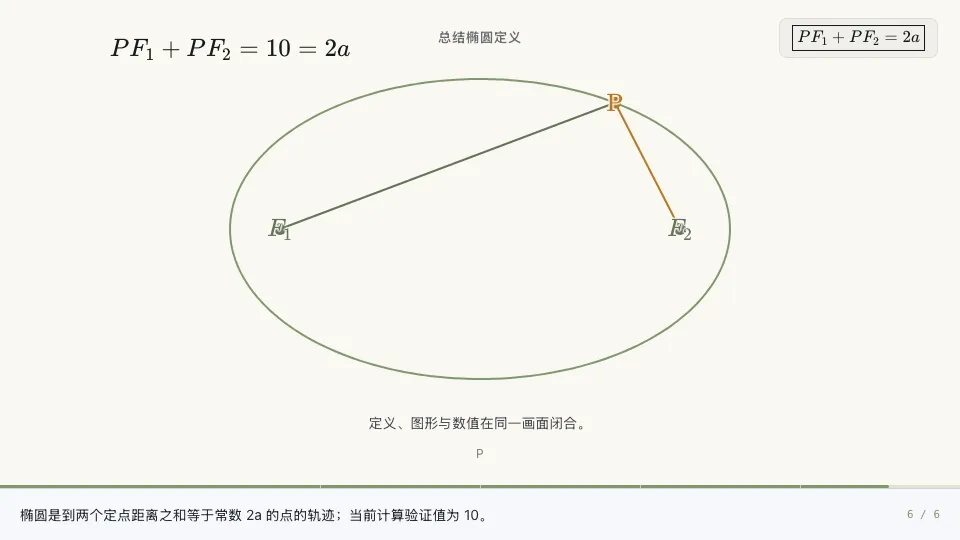
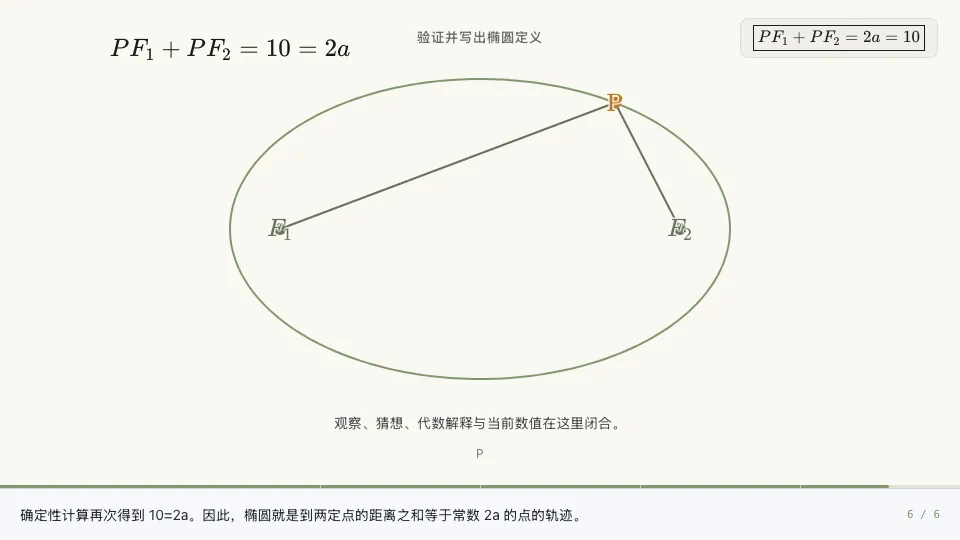
feat(math): clarify conic gold lessons

diff --git a/apps/web/src/pages/Templates/gold-templates/conicGoldTemplates.ts b/apps/web/src/pages/Templates/gold-templates/conicGoldTemplates.ts
@@ -1,12 +1,10 @@
 import type { MathSceneSnapshot, MetaStep, PlaybookScript } from "../../../features/playbook/engine/types";
 import {
   chordFromIntersection,
-  ellipseEccentricity,
   ellipseFocalDistanceSum,
   ellipseFoci,
   ellipseImplicit,
   ellipsePoint,
-  hyperbolaEccentricity,
   hyperbolaFocalDistanceDifference,
   hyperbolaFoci,
   hyperbolaPoint,
@@ -81,6 +79,7 @@ function buildEllipseFocus(params: TemplatePreviewParams): PlaybookScript {
   const t = clamp(numberParam(params, "t", 1), 0, 2 * Math.PI);
   const spec = { a, b };
   const [f1, f2] = ellipseFoci(spec);
+  const c = Math.sqrt(a * a - b * b);
   const p = ellipsePoint(spec, t);
   const d1 = Math.hypot(p.x - f1.x, p.y - f1.y);
   const d2 = Math.hypot(p.x - f2.x, p.y - f2.y);
@@ -88,24 +87,24 @@ function buildEllipseFocus(params: TemplatePreviewParams): PlaybookScript {
     kind: "math_scene", camera_mode: "fixed", x_min: -a - 1.5, x_max: a + 1.5, y_min: -b - 1.5, y_max: b + 1.5,
     x_label: "x", y_label: "y", curves: ellipseCurve(a, b),
     points: [
-      { ...f1, label: "$F_1$", emphasis: "secondary", semantic_role: "focus" },
-      { ...f2, label: "$F_2$", emphasis: "secondary", semantic_role: "focus" },
+      { ...f1, label: "$F_1$", emphasis: stage === 1 ? "accent" : "secondary", semantic_role: "focus" },
+      { ...f2, label: "$F_2$", emphasis: stage === 1 ? "accent" : "secondary", semantic_role: "focus" },
       ...(stage >= 2 ? [{ ...p, label: "P", emphasis: "accent", semantic_role: "moving_point" }] : []),
     ],
     segments: stage >= 3 ? [
-      { x0: p.x, y0: p.y, x1: f1.x, y1: f1.y, label: `PF₁=${fixed(d1)}`, emphasis: "secondary", semantic_role: "focal_distance" },
-      { x0: p.x, y0: p.y, x1: f2.x, y1: f2.y, label: `PF₂=${fixed(d2)}`, emphasis: "accent", semantic_role: "focal_distance" },
+      { x0: p.x, y0: p.y, x1: f1.x, y1: f1.y, label: `PF₁=${fixed(d1)}`, emphasis: stage === 3 ? "accent" : "secondary", semantic_role: "focal_distance" },
+      { x0: p.x, y0: p.y, x1: f2.x, y1: f2.y, label: `PF₂=${fixed(d2)}`, emphasis: stage === 3 ? "accent" : "secondary", semantic_role: "focal_distance" },
     ] : [],
     annotations: stage >= 4 ? [{ x: -a, y: b + 0.6, text: `$PF_1+PF_2=${fixed(d1 + d2)}=2a$`, align: "nw", semantic_role: "derivation_panel" }] : [],
     formula_latex: formula, caption,
   });
   const steps = [
-    sceneStep(0, "ellipse-foci", "先看两个焦点", "椭圆由两个固定焦点组织，并不是把圆随意压扁。", base(1, "F₁、F₂ 固定，曲线围绕它们展开。", String.raw`a=${a},\ b=${b}`)),
-    sceneStep(1, "ellipse-moving-point", "让点 P 沿椭圆移动", `当前参数 t=${fixed(t)}，P=(${fixed(p.x)},${fixed(p.y)})。`, base(2, "P 始终被确定性参数点限制在椭圆上。", String.raw`P(t)=(${a}\cos t,${b}\sin t)`)),
-    sceneStep(2, "ellipse-two-distances", "连接 P 与两个焦点", `当前 PF₁=${fixed(d1)}，PF₂=${fixed(d2)}。`, base(3, "两段距离分别变化。", String.raw`PF_1=${fixed(d1)},\ PF_2=${fixed(d2)}`)),
-    sceneStep(3, "ellipse-distance-sum", "比较距离和", `两段距离相加为 ${fixed(d1 + d2)}，恰好等于 2a=${fixed(2 * a)}。`, base(4, "单段长度会变，但距离和保持不变。", `PF_1+PF_2=2a=${fixed(2 * a)}`)),
-    sceneStep(4, "ellipse-shape-parameters", "改变 a 与 b", `当前离心率 e=${fixed(ellipseEccentricity(spec))}；a 与 b 改变时，焦点和形状同步重算。`, base(4, "参数变化不会破坏焦点定义。", String.raw`e=\frac{\sqrt{a^2-b^2}}a=${fixed(ellipseEccentricity(spec))}`)),
-    sceneStep(5, "ellipse-definition", "总结椭圆定义", `椭圆是到两个定点距离之和等于常数 2a 的点的轨迹；当前计算验证值为 ${fixed(ellipseFocalDistanceSum(spec, p))}。`, base(4, "定义、图形与数值在同一画面闭合。", String.raw`\boxed{PF_1+PF_2=2a}`)),
+    sceneStep(0, "ellipse-foci", "观察目标：寻找不变量", `先固定两个焦点 F₁、F₂；它们与中心的距离是 c=${fixed(c)}。`, base(1, "先记住两个定点，下一幕再引入动点。", String.raw`c=\sqrt{a^2-b^2}=${fixed(c)}`)),
+    sceneStep(1, "ellipse-moving-point", "改变 t：记录动点 P", `当 t=${fixed(t)} 时，P=(${fixed(p.x)},${fixed(p.y)})；改变 t 只改变 P 的位置，P 仍在同一椭圆上。`, base(2, "这一步只追踪 P 的位置，暂不计算距离。", String.raw`P(t)=(${a}\cos t,${b}\sin t)`)),
+    sceneStep(2, "ellipse-two-distances", "测量 PF₁ 与 PF₂", `连线后得 PF₁=${fixed(d1)}、PF₂=${fixed(d2)}。拖动 t 时，两段长度会一增一减。`, base(3, "先比较两个分量：它们都会变。", String.raw`PF_1=${fixed(d1)},\quad PF_2=${fixed(d2)}`)),
+    sceneStep(3, "ellipse-distance-sum", "提出猜想：距离和不变", `当前 PF₁+PF₂=${fixed(d1 + d2)}，恰好等于 2a=${fixed(2 * a)}。改变 t 后可继续检查这个猜想。`, base(4, "单段距离在变，但它们的和保持为 2a。", String.raw`PF_1+PF_2=${fixed(d1 + d2)}=2a`)),
+    sceneStep(4, "ellipse-shape-parameters", "代数解释：变化项相消", `由 b²=a²-c² 化简距离式，得 PF₁=a+c cos t，PF₂=a−c cos t；相加时变化项正好抵消。`, base(5, "不变不是图上的巧合：+ c cos t 与 − c cos t 相消。", String.raw`PF_1=a+c\cos t,\quad PF_2=a-c\cos t`)),
+    sceneStep(5, "ellipse-definition", "验证并写出椭圆定义", `确定性计算再次得到 ${fixed(ellipseFocalDistanceSum(spec, p))}=2a。因此，椭圆就是到两定点的距离之和等于常数 2a 的点的轨迹。`, base(5, "观察、猜想、代数解释与当前数值在这里闭合。", String.raw`\boxed{PF_1+PF_2=2a=${fixed(2 * a)}}`)),
   ];
   return playbook("椭圆的焦点定义", "看见椭圆上动点到两焦点距离之和恒为 2a。", "conic_ellipse_focus_definition", steps, [
     { id: "a", label: "长半轴 a", value: fixed(a), description: "满足 a>b>0" },
@@ -127,24 +126,26 @@ function buildParabola(params: TemplatePreviewParams): PlaybookScript {
     x_label: "x", y_label: "y",
     curves: [{ expression_x: `${p}*t^2`, expression_y: `${2 * p}*t`, t_min: -2.4, t_max: 2.4, label: "抛物线", emphasis: "primary", semantic_role: "conic_curve" }],
     points: [
-      { ...focus, label: "F", emphasis: "secondary", semantic_role: "focus" },
+      { ...focus, label: "F", emphasis: stage === 1 ? "accent" : "secondary", semantic_role: "focus" },
       ...(stage >= 2 ? [{ ...point, label: "P", emphasis: "accent", semantic_role: "moving_point" }] : []),
       ...(stage >= 3 ? [{ ...foot, label: "H", emphasis: "secondary", semantic_role: "projection_foot" }] : []),
     ],
     segments: [
-      { x0: -p, y0: -p * 5, x1: -p, y1: p * 5, label: "准线", emphasis: "secondary", semantic_role: "directrix" },
+      { x0: -p, y0: -p * 5, x1: -p, y1: p * 5, label: "准线", emphasis: stage === 1 ? "accent" : "secondary", semantic_role: "directrix" },
       ...(stage >= 3 ? [
         { x0: point.x, y0: point.y, x1: focus.x, y1: focus.y, label: `PF=${fixed(distances.focus)}`, emphasis: "accent", semantic_role: "focal_distance" },
         { x0: point.x, y0: point.y, x1: foot.x, y1: foot.y, label: `PH=${fixed(distances.directrix)}`, emphasis: "secondary", semantic_role: "directrix_distance" },
       ] : []),
-    ], formula_latex: formula, caption,
+    ],
+    annotations: [],
+    formula_latex: formula, caption,
   });
   const steps = [
-    sceneStep(0, "parabola-focus-directrix", "建立焦点与准线", `焦点 F=(${p},0)，准线是 x=${-p}。`, snapshot(1, "焦点和准线共同决定抛物线。", String.raw`F(${p},0),\ l:x=${-p}`)),
-    sceneStep(1, "parabola-moving-point", "选取曲线上动点", `参数 t=${fixed(t)} 给出 P=(${fixed(point.x)},${fixed(point.y)})。`, snapshot(2, "P 沿抛物线移动。", `P(t)=(${p}t^2,${2 * p}t)`)),
-    sceneStep(2, "parabola-project", "向准线作垂线", "H 是 P 到准线的垂足，所以 PH 是点到准线的距离。", snapshot(3, "PF 与 PH 在同一画面比较。", String.raw`PH\perp l`)),
-    sceneStep(3, "parabola-distance", "同步比较两段距离", `PF=${fixed(distances.focus)}，PH=${fixed(distances.directrix)}，两者相等。`, snapshot(3, "点移动时两段距离同步变化。", `PF=PH=${fixed(distances.focus)}`)),
-    sceneStep(4, "parabola-definition", "总结焦点—准线定义", "到定点 F 与定直线 l 距离相等的点的轨迹就是抛物线。", snapshot(3, "几何定义与参数方程互相验证。", String.raw`\boxed{PF=d(P,l)}`)),
+    sceneStep(0, "parabola-focus-directrix", "观察目标：寻找等距规则", `固定焦点 F=(${p},0) 与准线 l:x=${-p}，接下来只比较动点到它们的距离。`, snapshot(1, "一个定点、一条定直线，是整个定义的两个参照物。", String.raw`F(${p},0),\quad l:x=${-p}`)),
+    sceneStep(1, "parabola-moving-point", "改变 t：追踪曲线上的 P", `当 t=${fixed(t)} 时，P=(${fixed(point.x)},${fixed(point.y)})。拖动 t 会改变 P，但焦点和准线不动。`, snapshot(2, "这一幕只确定要测量的点 P。", String.raw`P(t)=(${p}t^2,${2 * p}t)`)),
+    sceneStep(2, "parabola-project", "构造可比的两段距离", `连接 PF，再作 PH⊥l。H=(${-p},${fixed(point.y)}) 是垂足，因此 PH 才是 P 到准线的最短距离。`, snapshot(3, "现在 PF 与 PH 表示同一个点 P 到两个参照物的距离。", String.raw`PH\perp l,\quad H(-p,2pt)`)),
+    sceneStep(3, "parabola-distance", "代数解释：为什么 PF=PH", `代入 P=(pt²,2pt) 后，PF 化简为 p(t²+1)；而 PH=x_P+p，也是 p(t²+1)。相等由参数式直接导出。`, snapshot(4, "两段距离随 t 同步改变，因为它们化简后是同一个式子。", String.raw`PF=\sqrt{p^2(t^2-1)^2+4p^2t^2}=p(t^2+1)=PH`)),
+    sceneStep(4, "parabola-definition", "数值验证并总结定义", `当前 PF=${fixed(distances.focus)}、PH=${fixed(distances.directrix)}，计算值一致。到定点 F 与定直线 l 距离相等的点的轨迹，就是抛物线。`, snapshot(4, "几何构造、代数化简和当前数值在这里共同验证定义。", String.raw`\boxed{PF=d(P,l)=${fixed(distances.focus)}}`)),
   ];
   return playbook("抛物线的焦点—准线定义", "比较动点到焦点和准线的距离。", "conic_parabola_focus_directrix", steps, [
     { id: "p", label: "焦参数 p", value: fixed(p), description: "保持 p>0" },
@@ -158,32 +159,40 @@ function buildHyperbola(params: TemplatePreviewParams): PlaybookScript {
   const u = clamp(numberParam(params, "u", 1), -1.7, 1.7);
   const spec = { a, b };
   const [f1, f2] = hyperbolaFoci(spec);
+  const c = Math.hypot(a, b);
   const p = hyperbolaPoint(spec, u);
+  const d1 = Math.hypot(p.x - f1.x, p.y - f1.y);
+  const d2 = Math.hypot(p.x - f2.x, p.y - f2.y);
   const difference = hyperbolaFocalDistanceDifference(spec, p);
   const span = a * 3.2;
   const snapshot = (stage: number, caption: string, formula: string): MathSceneSnapshot => ({
-    kind: "math_scene", camera_mode: "fixed", x_min: -span, x_max: span, y_min: -span * 0.75, y_max: span * 0.75, x_label: "x", y_label: "y",
+    kind: "math_scene", camera_mode: "fixed", x_min: -span, x_max: span, y_min: -span * 0.9, y_max: span * 0.9, x_label: "x", y_label: "y",
     curves: [1, -1].map((branch) => ({ expression_x: `${branch * a}*cosh(t)`, expression_y: `${b}*sinh(t)`, t_min: -1.8, t_max: 1.8, label: branch === 1 ? "右支" : "左支", emphasis: "primary", semantic_role: "conic_curve" })),
     points: [
-      { ...f1, label: "$F_1$", emphasis: "secondary", semantic_role: "focus" }, { ...f2, label: "$F_2$", emphasis: "secondary", semantic_role: "focus" },
+      ...(stage >= 5 ? [
+        { ...f1, label: "$F_1$", emphasis: "secondary", semantic_role: "focus" },
+        { ...f2, label: "$F_2$", emphasis: "secondary", semantic_role: "focus" },
+      ] : []),
       ...(stage >= 3 ? [{ ...p, label: "P", emphasis: "accent", semantic_role: "moving_point" }] : []),
     ],
     segments: stage >= 2 ? [
       { x0: -span, y0: -span * b / a, x1: span, y1: span * b / a, label: "渐近线", emphasis: "secondary", semantic_role: "asymptote" },
       { x0: -span, y0: span * b / a, x1: span, y1: -span * b / a, label: "渐近线", emphasis: "secondary", semantic_role: "asymptote" },
-      ...(stage >= 3 ? [
+      ...(stage >= 5 ? [
         { x0: p.x, y0: p.y, x1: f1.x, y1: f1.y, emphasis: "secondary", semantic_role: "focal_distance" },
         { x0: p.x, y0: p.y, x1: f2.x, y1: f2.y, emphasis: "accent", semantic_role: "focal_distance" },
       ] : []),
-    ] : [], formula_latex: formula, caption,
+    ] : [],
+    annotations: [],
+    formula_latex: formula, caption,
   });
   const steps = [
-    sceneStep(0, "hyperbola-branches", "辨认左右两支", "双曲线由互不相连的两支组成。", snapshot(1, "两支关于坐标轴和中心对称。", String.raw`\frac{x^2}{${a * a}}-\frac{y^2}{${b * b}}=1`)),
-    sceneStep(1, "hyperbola-asymptotes", "画出两条渐近线", `渐近线斜率是 ±b/a=±${fixed(b / a)}。`, snapshot(2, "曲线接近渐近线，但不会与它重合。", String.raw`y=\pm\frac ba x=\pm${fixed(b / a)}x`)),
-    sceneStep(2, "hyperbola-moving-point", "沿一支移动点 P", `当前 u=${fixed(u)}，P=(${fixed(p.x)},${fixed(p.y)})。`, snapshot(3, "参数增大时，点沿右支远离顶点。", String.raw`P(u)=(${a}\cosh u,${b}\sinh u)`)),
-    sceneStep(3, "hyperbola-focal-difference", "比较到两焦点的距离", `两焦点距离差的绝对值为 ${fixed(difference)}，恒等于 2a=${2 * a}。`, snapshot(3, "距离差是不变量。", `|PF_1-PF_2|=2a=${2 * a}`)),
-    sceneStep(4, "hyperbola-eccentricity", "观察离心率", `当前 e=${fixed(hyperbolaEccentricity(spec))}>1；改变 a、b 会同步改变开口和渐近线。`, snapshot(3, "离心率大于 1 是双曲线的特征。", String.raw`e=\frac{\sqrt{a^2+b^2}}a=${fixed(hyperbolaEccentricity(spec))}`)),
-    sceneStep(5, "hyperbola-summary", "总结渐近趋势", "越远离中心，双曲线越贴近两条渐近线，同时保持焦点距离差不变。", snapshot(3, "结构、渐近线和焦点定义共同描述双曲线。", String.raw`\boxed{|PF_1-PF_2|=2a}`)),
+    sceneStep(0, "hyperbola-branches", "观察目标：两支向哪里延伸", "先只看双曲线本身：它有互不相连的左、右两支，并关于坐标轴和原点对称。", snapshot(1, "先识别两支结构，下一幕再给出它们的参照方向。", String.raw`\frac{x^2}{${a * a}}-\frac{y^2}{${b * b}}=1`)),
+    sceneStep(1, "hyperbola-asymptotes", "提出猜想：两条参照线", `画出 y=±(b/a)x，当前斜率为 ±${fixed(b / a)}。从图上猜想：曲线越远离中心，越靠近这两条线。`, snapshot(2, "渐近线是待验证的方向，不是双曲线的一部分。", String.raw`y=\pm\frac ba x=\pm${fixed(b / a)}x`)),
+    sceneStep(2, "hyperbola-moving-point", "改变 u：比较 P 的方向", `当 u=${fixed(u)} 时，P=(${fixed(p.x)},${fixed(p.y)})，y/x=${fixed(p.y / p.x, 3)}。增大 |u| 时，这个比值会靠近 ±b/a。`, snapshot(3, "这一幕只跟踪动点方向 y/x 如何靠近渐近线斜率。", String.raw`P(u)=(${a}\cosh u,${b}\sinh u)`)),
+    sceneStep(3, "hyperbola-focal-difference", "代数验证渐近趋势", `由 y/x=(b/a)tanh u，当 u 趋向正、负无穷时，tanh u 趋向±1，因此 y/x 趋向±b/a。`, snapshot(4, "渐近线斜率来自参数式的极限，不只是目测结果。", String.raw`\frac yx=\frac ba\tanh u\longrightarrow\pm\frac ba`)),
+    sceneStep(4, "hyperbola-eccentricity", "建立第二个关系：焦距差", `现在引入 F₁、F₂。当前 PF₁=${fixed(d1)}、PF₂=${fixed(d2)}，两者不相等，但差的绝对值是 ${fixed(difference)}。`, snapshot(5, "分别测量两段焦距，关注它们的差而不是和。", String.raw`|PF_1-PF_2|=${fixed(difference)}`)),
+    sceneStep(5, "hyperbola-summary", "推导、验证并总结", `令 c=√(a²+b²)=${fixed(c)}，右支上 PF₁=c cosh u+a，PF₂=c cosh u−a，相减恒得 2a=${fixed(2 * a)}。当前数值 ${fixed(difference)} 与推导一致。`, snapshot(6, "双曲线同时具有渐近方向与焦距差不变两层结构。", String.raw`\boxed{|PF_1-PF_2|=2a=${fixed(difference)}}`)),
   ];
   return playbook("双曲线与渐近线", "理解双曲线两支、渐近趋势与焦点距离差。", "conic_hyperbola_asymptotes", steps, [
     { id: "a", label: "实半轴 a", value: fixed(a), description: "保持 a>0" },
@@ -219,12 +228,12 @@ function buildLineEllipse(params: TemplatePreviewParams): PlaybookScript {
     };
   };
   const steps = [
-    sceneStep(0, "line-ellipse-setup", "把直线代入椭圆", "联立后得到一元二次方程，几何交点数由实根个数决定。", snapshot([line], "当前参数先进入同一个确定性求交器。", String.raw`\frac{x^2}{25}+\frac{y^2}{9}=1`)),
-    sceneStep(1, "line-ellipse-secant", "Δ>0：两个交点", "参考直线 y=0 穿过椭圆，二次方程有两个不同实根。", snapshot([{ kind: "slope", slope: 0, intercept: 0 }], "两个实根对应 A、B。", String.raw`\Delta>0\Longleftrightarrow\text{相交}`)),
-    sceneStep(2, "line-ellipse-tangent", "Δ=0：交点合并", "参考直线 y=3 与椭圆相切，两个交点合并为一个切点。", snapshot([{ kind: "slope", slope: 0, intercept: 3 }], "重根对应唯一切点。", String.raw`\Delta=0\Longleftrightarrow\text{相切}`)),
-    sceneStep(3, "line-ellipse-disjoint", "Δ<0：没有实交点", "参考直线 y=3.8 位于椭圆外，方程没有实根。", snapshot([{ kind: "slope", slope: 0, intercept: 3.8 }], "无实根对应相离。", String.raw`\Delta<0\Longleftrightarrow\text{相离}`)),
+    sceneStep(0, "line-ellipse-setup", "观察目标：交点数如何变化", "拖动直线时，先只记录它与椭圆有 2、1 还是 0 个交点。要解释这个变化，需要把联立问题化为一元二次方程。", snapshot([line], "画面中的交点数，会与代入后的实根数一一对应。", String.raw`l\cap C\Longleftrightarrow Ax^2+Bx+C=0`)),
+    sceneStep(1, "line-ellipse-secant", "验证一：Δ>0 对应两交点", "取 y=0，代入后得 x²/25−1=0，有 x=±5 两个实根；画面中正好出现 A、B 两个交点。", snapshot([{ kind: "slope", slope: 0, intercept: 0 }], "两个不同实根与两个交点一一对应。", String.raw`x=\pm5\Rightarrow\Delta>0\Longleftrightarrow\text{相交}`)),
+    sceneStep(2, "line-ellipse-tangent", "验证二：Δ=0 对应唯一切点", "取 y=3，代入后只剩 x²/25=0，x=0 是重根；原来的两个交点在 T=(0,3) 合并。", snapshot([{ kind: "slope", slope: 0, intercept: 3 }], "重根不是两个可见交点，而是一个唯一切点。", String.raw`x^2=0\Rightarrow\Delta=0\Longleftrightarrow\text{相切}`)),
+    sceneStep(3, "line-ellipse-disjoint", "验证三：Δ<0 对应相离", "取 y=3.8，代入后 x²/25+3.8²/9=1 无实数解；画面中直线也完全位于椭圆外。", snapshot([{ kind: "slope", slope: 0, intercept: 3.8 }], "无实根与零个几何交点一致。", String.raw`\frac{x^2}{25}+\frac{3.8^2}{9}=1\Rightarrow\Delta<0\Longleftrightarrow\text{相离}`)),
     sceneStep(4, "line-ellipse-vertical", "单独处理竖直直线", "竖直直线没有斜率，直接令 x 为常数代入，不能伪造一个无限大斜率。", snapshot([{ kind: "vertical", x: 4 }], "x=4 仍得到两个有序交点。", String.raw`x=c\Rightarrow\frac{y^2}{b^2}=1-\frac{c^2}{a^2}`)),
-    sceneStep(5, "line-ellipse-current", "回到当前参数", `当前直线与椭圆${statusText}，判别式为 ${fixed(result.discriminant, 4)}。`, snapshot([line], `容差内的近重根按相切处理；当前状态为${statusText}。`, String.raw`\boxed{\Delta=${fixed(result.discriminant, 4)}}`)),
+    sceneStep(5, "line-ellipse-current", "回到当前参数并下结论", `当前判别式Δ=${fixed(result.discriminant, 4)}，所以直线与椭圆${statusText}；容差内的近重根按一个切点处理。`, snapshot([line], `先看Δ的符号，再读出交点数：当前结论为${statusText}。`, String.raw`\boxed{\Delta=${fixed(result.discriminant, 4)}\Rightarrow\text{${statusText}}}`)),
   ];
   return playbook("直线与椭圆的位置关系", "把交点个数与判别式正、零、负对应起来。", "conic_line_ellipse_position", steps, [
     { id: "lineType", label: "直线类型", value: lineType, description: "斜率式或竖直式" },
@@ -249,29 +258,33 @@ function buildChordLocus(params: TemplatePreviewParams): PlaybookScript {
   }).filter((point): point is { x: number; y: number } => point != null);
   const locusA = q / 2;
   const locusB = b * q / (2 * a);
+  const locusResidual = a * a * chord.midpoint.y * chord.midpoint.y
+    + b * b * chord.midpoint.x * (chord.midpoint.x - q);
   const snapshot = (stage: number, caption: string, formula: string): MathSceneSnapshot => ({
     kind: "math_scene", camera_mode: "fixed", x_min: -6, x_max: 6, y_min: -4, y_max: 4, x_label: "x", y_label: "y", curves: [
       ...ellipseCurve(a, b),
-      ...(stage >= 4 ? [{ expression_x: `${q / 2}+${locusA}*cos(t)`, expression_y: `${locusB}*sin(t)`, t_min: 0, t_max: 2 * Math.PI, label: "理论轨迹", emphasis: "secondary", semantic_role: "theoretical_locus" }] : []),
+      ...(stage >= 5 ? [{ expression_x: `${q / 2}+${locusA}*cos(t)`, expression_y: `${locusB}*sin(t)`, t_min: 0, t_max: 2 * Math.PI, label: "理论轨迹", emphasis: "secondary", semantic_role: "theoretical_locus" }] : []),
     ],
     segments: [{ ...lineSegment(line, 6), label: "动弦 AB", semantic_role: "chord" }],
     points: [
       { x: q, y: 0, label: "Q", emphasis: "secondary", semantic_role: "fixed_point" },
-      { ...chord.endpoints[0], label: "A", emphasis: "primary", semantic_role: "intersection_point" },
-      { ...chord.endpoints[1], label: "B", emphasis: "primary", semantic_role: "intersection_point" },
-      { ...chord.midpoint, label: "M", emphasis: "accent", semantic_role: "chord_midpoint" },
-      ...(stage >= 3 ? trail.map((point) => ({ ...point, emphasis: "secondary", semantic_role: "locus_trail" })) : []),
+      ...(stage >= 2 ? [
+        { ...chord.endpoints[0], label: "A", emphasis: "primary", semantic_role: "intersection_point" },
+        { ...chord.endpoints[1], label: "B", emphasis: "primary", semantic_role: "intersection_point" },
+      ] : []),
+      ...(stage >= 3 ? [{ ...chord.midpoint, label: "M", emphasis: "accent", semantic_role: "chord_midpoint" }] : []),
+      ...(stage >= 4 ? trail.map((point) => ({ ...point, emphasis: "secondary", semantic_role: "locus_trail" })) : []),
     ],
-    annotations: [{ x: -5.4, y: 3.3, text: `m=${fixed(slope)} · M(${fixed(chord.midpoint.x)},${fixed(chord.midpoint.y)})`, align: "nw", semantic_role: "derivation_panel" }],
+    annotations: stage >= 3 ? [{ x: -5.4, y: 3.3, text: `$M(${fixed(chord.midpoint.x)},${fixed(chord.midpoint.y)})$`, align: "nw", semantic_role: "derivation_panel" }] : [],
     formula_latex: formula, caption,
   });
   const steps = [
-    sceneStep(0, "chord-family", "建立过定点的动直线", `固定点 Q=(${fixed(q)},0) 在椭圆内部，任意有限斜率都给出一条实弦。`, snapshot(1, "直线绕 Q 转动。", `y=m(x-${fixed(q)})`)),
-    sceneStep(1, "chord-endpoints", "求出弦的两个端点", `当前交点 A、B 由同一个确定性二次方程求出，弦长为 ${fixed(chord.length)}。`, snapshot(2, "交点按直线参数稳定排序。", `AB=${fixed(chord.length)}`)),
-    sceneStep(2, "chord-midpoint", "标出中点 M", `M=(${fixed(chord.midpoint.x)},${fixed(chord.midpoint.y)})，它由 A、B 坐标平均得到。`, snapshot(2, "每条有效弦只对应一个中点。", String.raw`M=\frac{A+B}{2}`)),
-    sceneStep(3, "chord-trail", "保留中点运动尾迹", "随着斜率变化，中点形成有范围的轨迹，而不是随机散点。", snapshot(3, "无实交点或退化参数不会写入尾迹。", String.raw`m\mapsto M(m)`)),
-    sceneStep(4, "chord-vieta", "用韦达关系消去端点", "把直线代入椭圆，利用两根之和表达中点，再消去斜率。", snapshot(4, "代数关系给出理论轨迹。", `a^2y_M^2+b^2x_M(x_M-${fixed(q)})=0`)),
-    sceneStep(5, "chord-locus-result", "比较尾迹与理论轨迹", "采样尾迹落在理论小椭圆上；竖直弦对应轨迹端点，由极限补足。", snapshot(4, "运动观察与点差/韦达推导一致。", String.raw`\boxed{${a * a}y^2+${b * b}x(x-${fixed(q)})=0}`)),
+    sceneStep(0, "chord-family", "观察目标：弦的中点往哪里走", `固定 Q=(${fixed(q)},0)，让直线 y=m(x−${fixed(q)}) 绕 Q 转动。这一幕只确认所有动直线都经过同一定点。`, snapshot(1, "先建立直线族，下一幕再取它与椭圆的交点。", `y=m(x-${fixed(q)})`)),
+    sceneStep(1, "chord-endpoints", "从交点得到动弦 AB", `当前直线与椭圆交于 A、B，两点同时满足直线与椭圆方程，弦长 AB=${fixed(chord.length)}。`, snapshot(2, "A、B 是同一个二次方程的两个实根对应的交点。", String.raw`\frac{x^2}{25}+\frac{m^2(x-q)^2}{9}=1`)),
+    sceneStep(2, "chord-midpoint", "只追踪中点 M", `对当前动弦取坐标平均，得 M=(${fixed(chord.midpoint.x)},${fixed(chord.midpoint.y)})。改变 m 时，A、B、M 会一起重算。`, snapshot(3, "每条有效动弦只保留一个中点，避免让端点轨迹干扰观察。", String.raw`M\left(\frac{x_A+x_B}{2},\frac{y_A+y_B}{2}\right)`)),
+    sceneStep(3, "chord-trail", "积累尾迹并提出猜想", "改变斜率 m，保留每次的 M。散点排成一条封闭曲线，因此猜想中点轨迹是一个有范围的椭圆。", snapshot(4, "尾迹只是猜想依据；轨迹方程与端点还需要代数证明。", String.raw`m\mapsto M(m)`)),
+    sceneStep(4, "chord-vieta", "用韦达关系消去 A、B 与 m", `直线代入椭圆后，用两根之和求 x_M，再以 y_M=m(x_M−${fixed(q)}) 消去 m，得 ${a * a}y_M²+${b * b}x_M(x_M−${fixed(q)})=0。`, snapshot(5, "理论曲线现在才出现，用来检查之前的尾迹猜想。", String.raw`x_M=\frac{a^2m^2q}{b^2+a^2m^2}\Rightarrow a^2y_M^2+b^2x_M(x_M-${fixed(q)})=0`)),
+    sceneStep(5, "chord-locus-result", "代入验证并补足轨迹范围", `当前 M 代入轨迹方程，左边计算为 ${fixed(locusResidual, 6)}；尾迹与理论椭圆重合。竖直弦给出两个端点，由 m→±∞ 补足。`, snapshot(5, "数值残差为零，理论轨迹、采样尾迹和退化端点共同闭合。", String.raw`\boxed{${a * a}y^2+${b * b}x(x-${fixed(q)})=0}`)),
   ];
   return playbook("椭圆动弦与中点轨迹", "从动弦观察出发，用韦达关系验证中点轨迹。", "conic_ellipse_chord_midpoint_locus", steps, [
     { id: "fixedX", label: "定点横坐标 q", value: fixed(q), description: "自动限制在椭圆内部" },

diff --git a/apps/web/src/pages/Templates/gold-templates/polePolarGoldTemplate.ts b/apps/web/src/pages/Templates/gold-templates/polePolarGoldTemplate.ts
@@ -103,6 +103,8 @@ function snapshot(
     segments.push(
       { x0: values.k, y0: values.k, x1: ax, y1: ay, label: "PA", emphasis: stage === 2 ? "accent" : "secondary", semantic_role: "tangent" },
       { x0: values.k, y0: values.k, x1: bx, y1: by, label: "PB", emphasis: stage === 2 ? "accent" : "secondary", semantic_role: "tangent" },
+      { x0: 0, y0: 0, x1: ax, y1: ay, label: "OA", emphasis: "secondary", semantic_role: "radius_to_tangent" },
+      { x0: 0, y0: 0, x1: bx, y1: by, label: "OB", emphasis: "secondary", semantic_role: "radius_to_tangent" },
     );
   }
   if (showChord && !showPolar) {
@@ -120,9 +122,18 @@ function snapshot(
     });
   }
   const annotations: MathSceneSnapshot["annotations"] = [];
-  if (stage === 3) annotations.push({ x: midpoint + 0.5, y: midpoint + 0.5, text: "接触弦 AB", align: "ne" });
-  if (stage === 4) annotations.push({ x: ax + 0.45, y: ay + 0.65, text: "切点 A", align: "ne" });
-  if (showPolar) annotations.push({ x: midpoint + 2.9, y: midpoint - 2.5, text: "极线 l", align: "se" });
+  if (stage === 1) annotations.push({ x: -5.4, y: 5.3, text: `$OP^2=${fixed(2 * values.k ** 2)}>R^2$`, align: "nw", semantic_role: "validity_check" });
+  if (stage === 2) annotations.push({ x: -5.4, y: 5.3, text: "$OA\\perp PA,\\ OB\\perp PB$", align: "nw", semantic_role: "tangency_check" });
+  if (stage === 3) annotations.push({ x: midpoint + 0.5, y: midpoint + 0.5, text: "接触弦 AB", align: "ne", semantic_role: "relation_label" });
+  if (stage === 4) annotations.push({ x: ax + 0.45, y: ay + 0.65, text: "$A(a,b)$", align: "ne", semantic_role: "derivation_panel" });
+  if (stage === 5) annotations.push({ x: -5.4, y: 5.3, text: String.raw`$A,B:\quad kx+ky=${values.radius ** 2}$`, align: "nw", semantic_role: "verification_panel" });
+  if (showPolar) annotations.push({
+    x: midpoint + 4.6,
+    y: midpoint - 3.2,
+    text: "极线",
+    align: "se",
+    semantic_role: "relation_label",
+  });
   return {
     kind: "math_scene",
     camera_mode: "fixed",
@@ -154,13 +165,17 @@ function buildPlaybook(params: TemplatePreviewParams): PlaybookScript {
   const values = polePolarValues(params);
   const k = fixed(values.k);
   const sum = fixed(values.polarSum);
+  const [ax, ay] = values.pointA;
+  const [bx, by] = values.pointB;
+  const valueAtA = values.k * (ax + ay);
+  const valueAtB = values.k * (bx + by);
   const steps = [
-    step(0, { step_id: "pole-polar-setup", title: "确定圆与圆外点", voiceover_text: `圆 C 的半径是 ${values.radius}，外点 P=(${k},${k})。先确认 P 在圆外，才能作出两条实切线。`, snapshot: snapshot(values, 1, "先建立圆与圆外点 P。", `C:x^2+y^2=${values.radius ** 2}`) }),
-    step(1, { step_id: "pole-polar-tangents", title: "作出两条切线", voiceover_text: "从 P 向圆作 PA、PB 两条切线，半径 OA、OB 分别垂直于对应切线。", snapshot: snapshot(values, 2, "A、B 是从 P 引出的两条切线的切点。", "PA\\perp OA,\\quad PB\\perp OB") }),
-    step(2, { step_id: "pole-polar-chord", title: "连接两个切点", voiceover_text: "连接 A、B 得到接触弦。关于这个圆，AB 就是外点 P 的极线。", snapshot: snapshot(values, 3, "接触弦 AB 把两个切点连成一条直线。", "A,B\\in C") }),
-    step(3, { step_id: "pole-polar-tangent-equation", title: "写出切点处切线", voiceover_text: "若 A=(a,b)，圆在 A 点的切线方程是 ax+by=R²。", snapshot: snapshot(values, 4, "把切点坐标写进圆的切线公式。", "A(a,b):\\quad ax+by=R^2") }),
-    step(4, { step_id: "pole-polar-substitute-pole", title: "代入共同的外点 P", voiceover_text: `P=(${k},${k}) 同时在 A、B 两点的切线上，所以 A、B 都满足 kx+ky=R²。`, snapshot: snapshot(values, 5, `A、B 共同满足 x+y=${sum}。`, `ak+bk=R^2\\Rightarrow a+b=\\frac{R^2}{k}`) }),
-    step(5, { step_id: "pole-polar-result", title: "得到极线方程", voiceover_text: `因此 P=(${k},${k}) 关于圆的极线是 kx+ky=R²，也就是 x+y=${sum}。`, snapshot: snapshot(values, 6, `拖动 k 时，极线 x+y=${sum} 会与外点 P 同步移动。`, `\\boxed{kx+ky=R^2}\\iff\\boxed{x+y=${sum}}`) }),
+    step(0, { step_id: "pole-polar-setup", title: "观察目标：外点如何决定一条线", voiceover_text: `圆 C 的半径 R=${values.radius}，P=(${k},${k})。先验证 OP²=${fixed(2 * values.k ** 2)}>R²=25，所以 P 在圆外，两条实切线的构造才成立。`, snapshot: snapshot(values, 1, "第一步只检查构造条件：P 必须在圆外。", `OP^2=2k^2=${fixed(2 * values.k ** 2)}>R^2=25`) }),
+    step(1, { step_id: "pole-polar-tangents", title: "构造两条切线并验证切点", voiceover_text: "从 P 引 PA、PB，再连接 OA、OB。画面中 OA⊥PA、OB⊥PB，这两个直角确认 A、B 确实是切点。", snapshot: snapshot(values, 2, "半径与切线的垂直关系，是这一幕唯一需要确认的事实。", "OA\\perp PA,\\quad OB\\perp PB") }),
+    step(2, { step_id: "pole-polar-chord", title: "连接 A、B：猜想接触弦的方程", voiceover_text: "连接两个切点得到接触弦 AB。我们要寻找一个同时被 A、B 满足的一次方程；这条直线就是 P 关于圆 C 的极线。", snapshot: snapshot(values, 3, "先看见接触弦，再用切线方程证明它由 P 唯一决定。", "A,B\\in C\\quad\\text{且}\\quad A,B\\in l") }),
+    step(3, { step_id: "pole-polar-tangent-equation", title: "代数解释：切线方程从哪里来", voiceover_text: "设 A=(a,b)。向量 OA=(a,b) 是切线的法向量，而 A 在圆上，a²+b²=R²，因此 A 点切线为 ax+by=R²。", snapshot: snapshot(values, 4, "法向量给出左边，切点在圆上给出右边 R²。", "A(a,b):\\quad (a,b)\\cdot(x,y)=a^2+b^2=R^2") }),
+    step(4, { step_id: "pole-polar-substitute-pole", title: "代入 P：验证 A、B 共线", voiceover_text: `P=(${k},${k}) 同时在 A、B 处的两条切线上。对当前切点计算，k(a+b)=${fixed(valueAtA)}，k(x_B+y_B)=${fixed(valueAtB)}，都等于 R²=25，因此 A、B 共同满足 kx+ky=25。`, snapshot: snapshot(values, 5, `两个切点分别代入同一方程，数值均为 25。`, `A,B:\\quad kx+ky=R^2=25\\Rightarrow x+y=${sum}`) }),
+    step(5, { step_id: "pole-polar-result", title: "写出极线并总结联动关系", voiceover_text: `所以 P=(${k},${k}) 的极线是 kx+ky=25，即 x+y=${sum}。增大 k 时，25/k 变小，极线便向原点平移；构造、推导与参数变化由同一方程统一。`, snapshot: snapshot(values, 6, `当前画面只突出整条极线 x+y=${sum}，而不再突出单个切点。`, `\\boxed{kx+ky=R^2}\\iff\\boxed{x+y=${sum}}`) }),
   ];
   return {
     schema_version: "2.0.0",

diff --git a/apps/web/visual-tests/conic-gold.spec.ts b/apps/web/visual-tests/conic-gold.spec.ts
@@ -3,9 +3,9 @@ import { expect, test, type Page } from "@playwright/test";
 const CASES = [
   ["ellipse-focus-definition", 6, ["conic_curve", "focus"], { focus: 2, focal_distance: 2 }],
   ["parabola-focus-directrix", 5, ["conic_curve", "focus", "directrix"], { focus: 1, directrix: 1, projection_foot: 1 }],
-  ["hyperbola-asymptotes", 6, ["conic_curve", "focus"], { conic_curve: 2, focus: 2, asymptote: 2 }],
+  ["hyperbola-asymptotes", 6, ["conic_curve"], { conic_curve: 2, focus: 2, asymptote: 2 }],
   ["line-ellipse-position", 6, ["conic_curve", "moving_line"], { moving_line: 1, discriminant_panel: 1 }],
-  ["ellipse-chord-midpoint-locus", 6, ["chord", "chord_midpoint"], { intersection_point: 2, chord_midpoint: 1, theoretical_locus: 1 }],
+  ["ellipse-chord-midpoint-locus", 6, ["chord", "fixed_point"], { intersection_point: 2, chord_midpoint: 1, theoretical_locus: 1 }],
   ["pole-polar", 6, ["conic_curve", "moving_point"], { tangent_point: 2, tangent: 2, polar_line: 1 }],
 ] as const;
 
